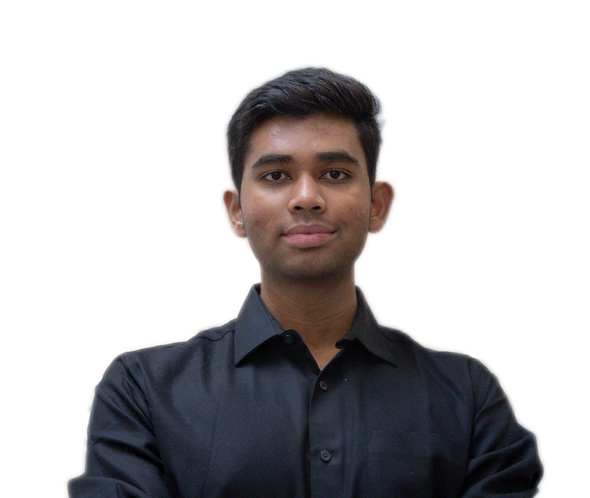
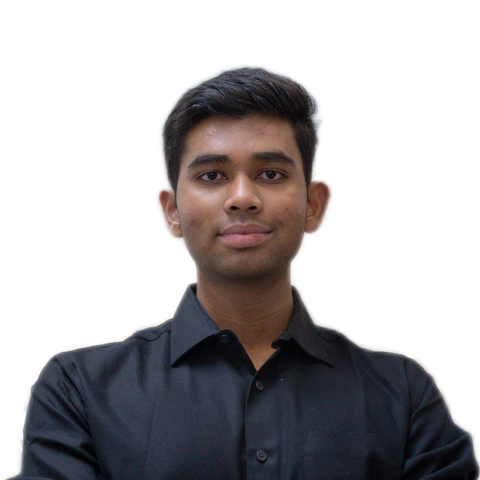
recrop Adwait's headshot photo

Changed region(s): [[0.0, 0.125, 1.0, 1.0]]

diff --git a/app/components/leadership/members.tsx b/app/components/leadership/members.tsx
@@ -158,7 +158,7 @@ function Members() {
         {
           name: "Connor Pineault",
           title: "Web Developer",
-          img: "/headshots/connor_pineault.png",
+          img: "/headshots/Connor_Pineault.png",
           class: "leadershipCardOperations",
           social: "https://www.linkedin.com/in/connorpineault/",
         },
